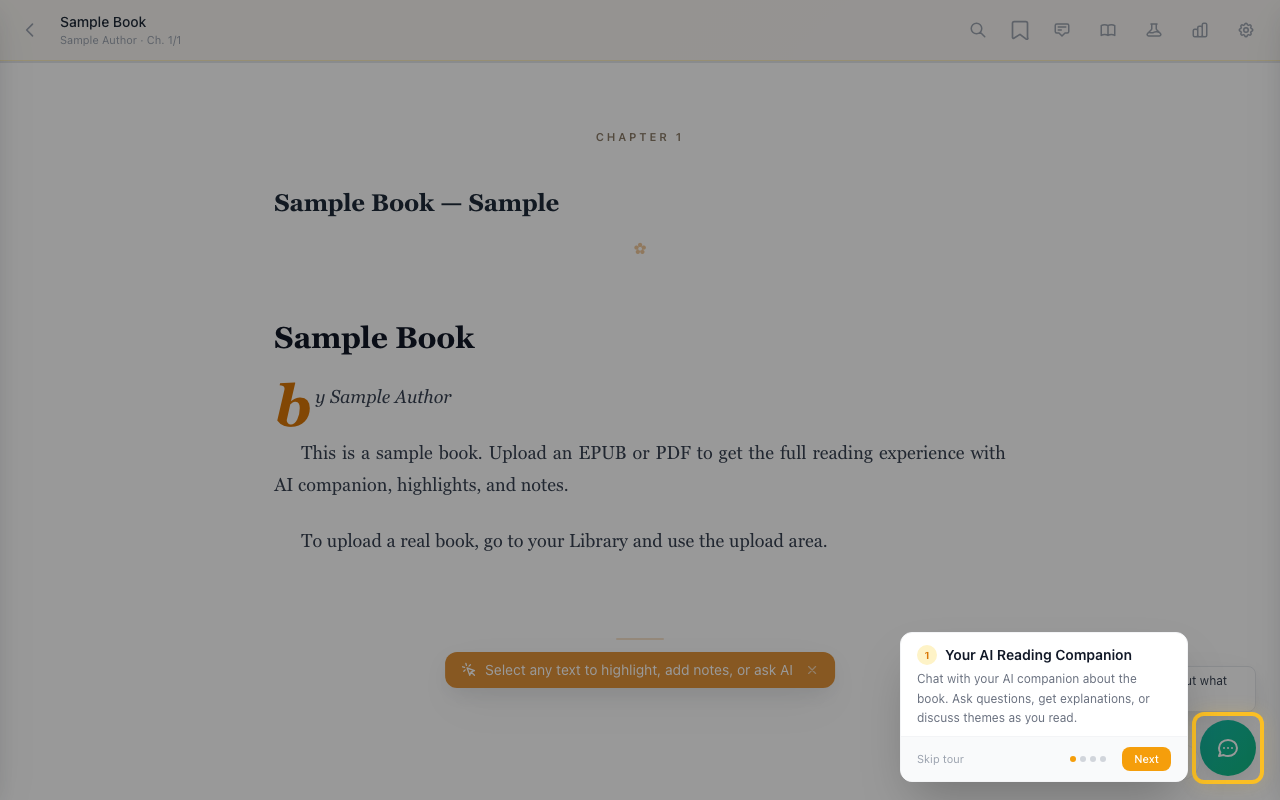
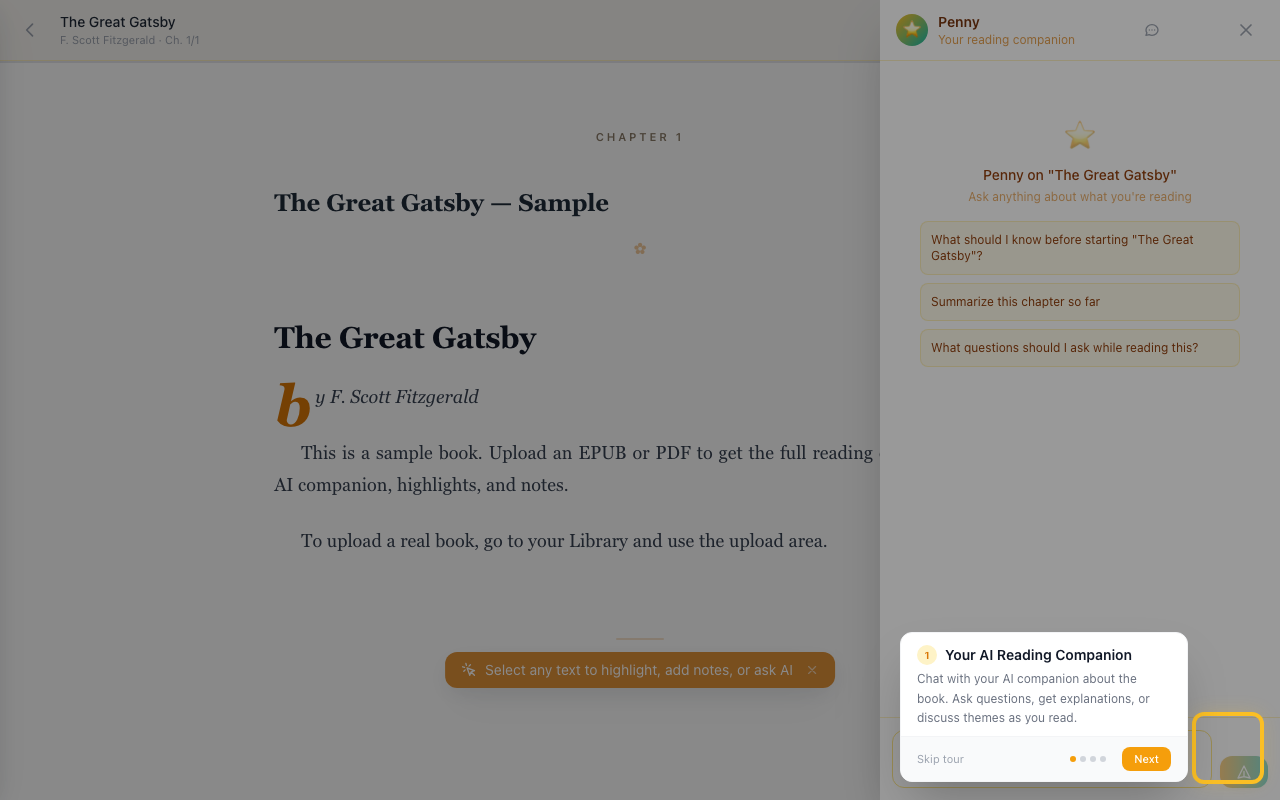
fix: companion chat screenshot + ZoteroSection 404 error
- Recaptured companion-chat.png with AI chat panel open (was duplicate of reader-view)
- Fixed ZoteroSection calling non-existent /api/zotero/status → now reads from /api/v1/settings

diff --git a/packages/web/src/components/settings/ZoteroSection.tsx b/packages/web/src/components/settings/ZoteroSection.tsx
@@ -13,13 +13,17 @@ export function ZoteroSection() {
   const [saving, setSaving] = useState(false);
 
   useEffect(() => {
-    api.get<{ connected: boolean; userId: string | null }>('/api/zotero/status')
+    api.get<{ connected: boolean; userId: string | null }>('/api/v1/settings')
       .then((res) => {
         if (res.success && res.data) {
-          setConnected(res.data.connected);
-          if (res.data.userId) setUserId(res.data.userId);
+          const d = res.data as Record<string, unknown>;
+          if (d.zoteroApiKey && d.zoteroUserId) {
+            setConnected(true);
+            setUserId(String(d.zoteroUserId));
+          }
         }
-      });
+      })
+      .catch(() => { /* Zotero not configured */ });
   }, []);
 
   async function handleConnect() {
